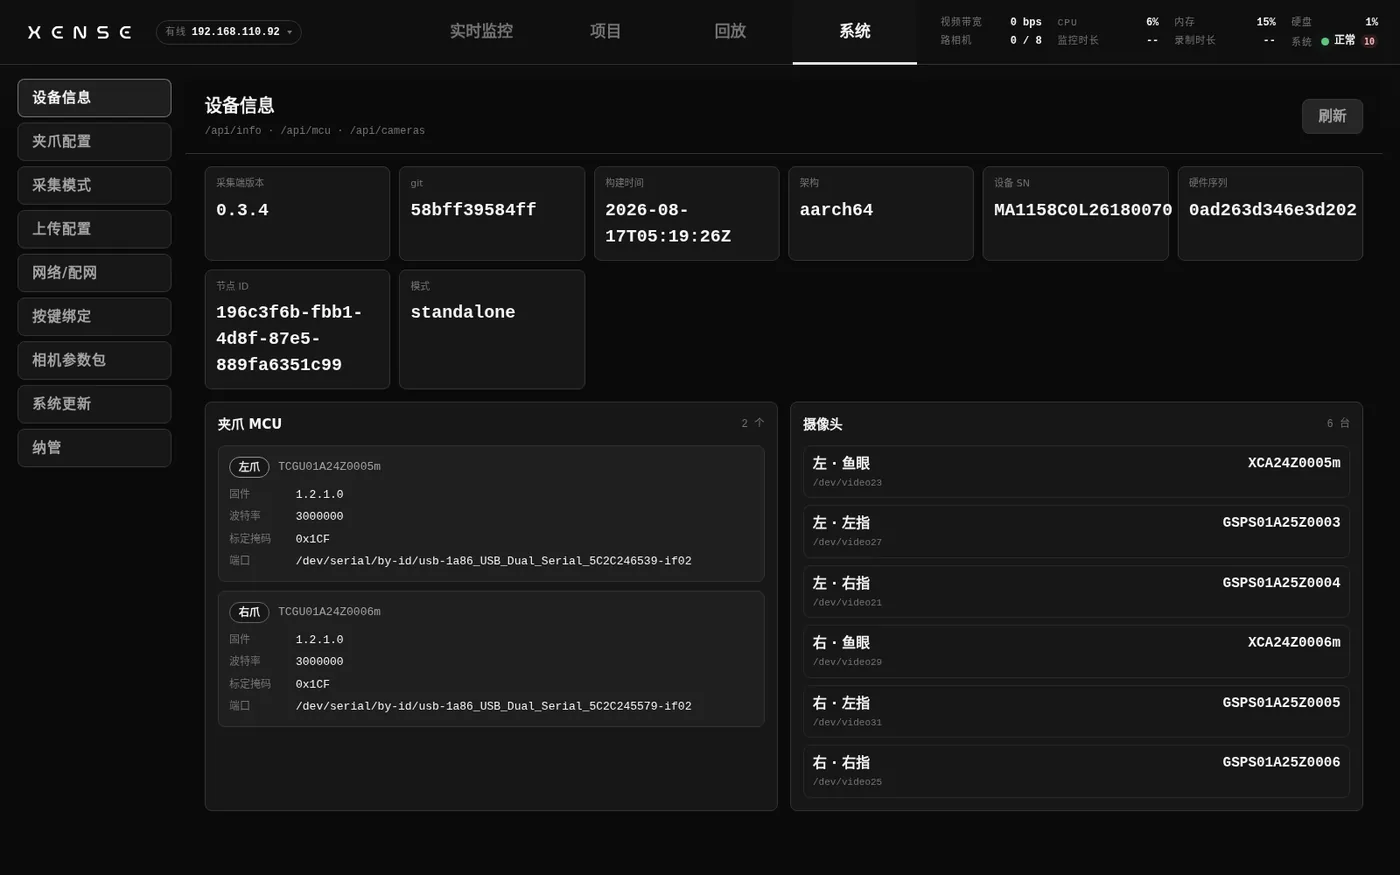
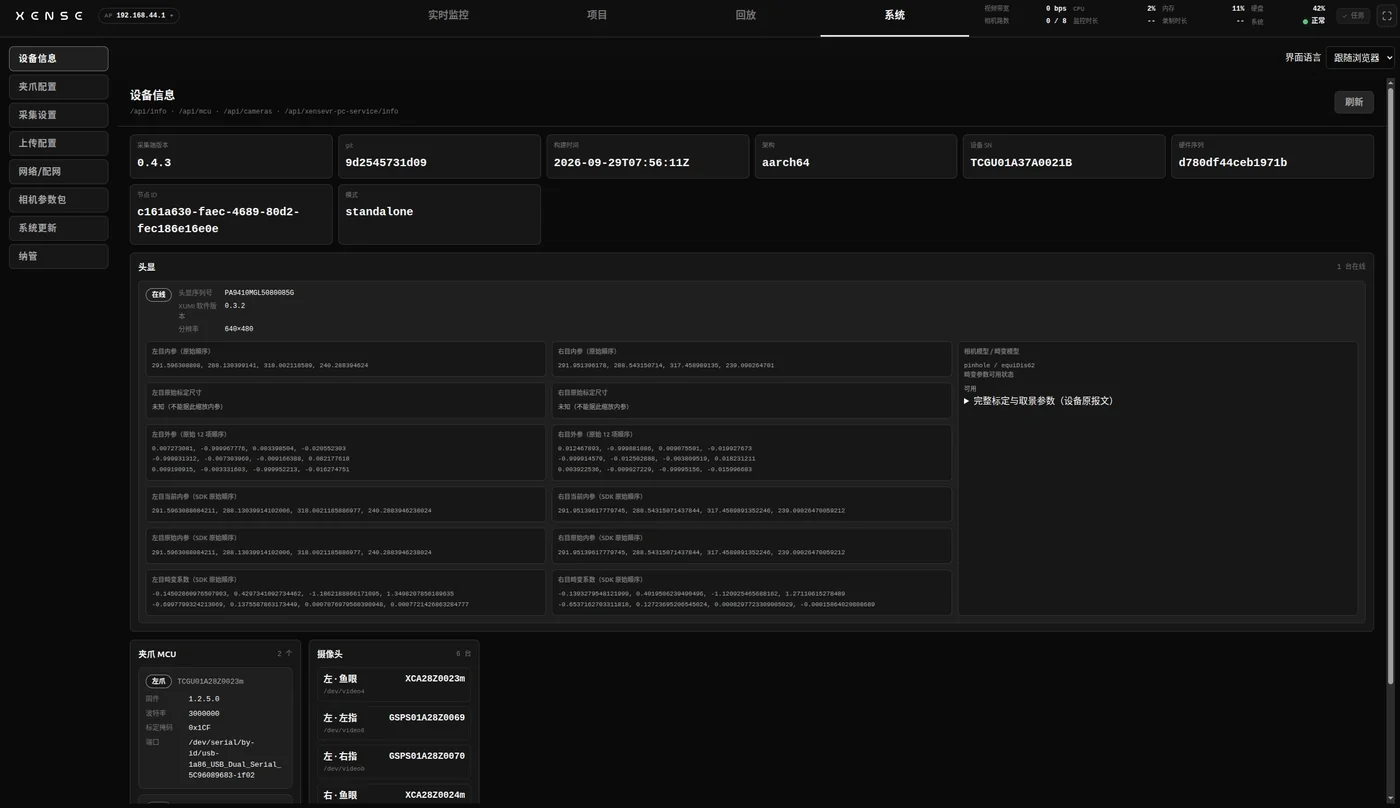
docs: 背包控制台 12 张截图换成 0.4.3 真机图，热点密码打码；网络页补设备名一行

diff --git a/docs/assets/README.md b/docs/assets/README.md
@@ -11,7 +11,7 @@
 |---|---|---|
 | `brand/` | 站点 logo(`logo.svg` 深色版、`logo-light.svg` 白色版给黑色页眉)、favicon | 主题 |
 | `product/` | 产品渲染图、背包接口与标签照片、接线图 | 首页、product/ |
-| `backpack/` | XTac-UMI Collector 控制台截图(多数仍是 0.3.16 拍的;界面已变的四张换成了占位图,见下方[占位图待补](#placeholder);文件名沿用 Taccap-User-Doc;首页与 product/ 的控制台展示图也从这里取) | 首页、product/、backpack/ |
+| `backpack/` | XTac-UMI Collector 控制台截图(2026-10-07 起按 0.4.3 重截,仍是旧图的见下方[待重截](#placeholder);文件名沿用 Taccap-User-Doc;首页与 product/ 的控制台展示图也从这里取) | 首页、product/、backpack/ |
 | `pico4/` | Pico4 Ultra 企业版系统与 APP 截图 | common/pico4 |
 | `hardware/` | 夹爪接口、锁紧、指示灯示意 | common/gripper、product/g1 |
 | `bringup/` `record/` `dataset/` | PC 版启动、录制、数据集截图与示意图 | 首页、pc/ |
@@ -19,25 +19,19 @@
 | `video/` | 产品宣传视频 | product/highlights |
 | `javascripts/` | PC 版总览的交互式架构图(`arch.js`) | pc/index |
 
-## 占位图待补 {#placeholder}
+## 待重截 {#placeholder}
 
-文档已同步到 Collector 0.4.1,下面四张的界面在 0.4.1 结构性改过(不只是细节差异),
-原图会误导读者,所以**先用占位图顶替**。拿到 0.4.1 真机后按「应当拍什么」重截,
-**覆盖同名文件即可**,文档里的引用路径不用动;原图在 git 历史里可取回。
+2026-10-07 用 0.4.3 真机重截了 12 张(采集设置、网络 / 配网、上传配置、夹爪配置、新建项目、
+项目页、实时监控、系统更新、顶栏网络下拉、设备信息、回放、相机参数包),**同名覆盖**,引用路径不变。
+`wifi.webp` 与 `network-dropdown-live.webp` 里的热点密码已打码。
 
-| 文件 | 应当拍什么 | 为什么原图失效 |
+下面几张仍是 0.3.x 的旧界面,重截后同名覆盖即可:
+
+| 文件 | 应当拍什么 | 用在 |
 |---|---|---|
-| `capture-mode.webp` | 系统 → 采集设置页首的「当前项目采集配置」只读块 | 原图是设备级、可点击切换的模式卡片;0.4.1 改成项目级、建项目时冻结,这一页只读展示 |
-| `new-project.webp` | 新建项目对话框(含采集模式、PICO 分辨率、触觉导出方向、图像源、鱼眼矫正) | 原图只有项目名与上传后端;0.4.1 把采集配置挪进了建项目这一步 |
-| `upload.webp` | 系统 → 上传配置,展开后端种类下拉 | 原图是三档后端;0.4.1 是五档(多了 FTP / FTPS 与 NFS) |
-| `wifi.webp` | 系统 → 网络 / 配网,含热点开关与「域名」字段 | 原图的热点块是只读展示;0.4.1 可开关热点、可改 mDNS 域名 |
-
-占位图是**双语**的(中文 + English):这四张在中英两套页面里共用同一个文件,
-一份双语图两边都读得懂,省掉一套英文专用图和两边的引用改动。真机截图拍的是
-控制台界面,界面本身是中文,与站内其余截图一致,不需要再出英文版。
-
-其余截图暂按原样保留 —— 它们与 0.4.1 的差异还没有核实到「结构性改变」的程度,
-拿真图换掉一张能看的旧图,不如先留着。重截时可一并核对。
+| `export-precheck-live.webp` | 0.4.3 导出对话框:预检、选录制、去向、格式 | projects-export |
+| `new-task-live.webp` | 0.4.3 新建任务对话框 | monitor-record |
+| `delete-select.webp`、`delete-confirm.webp` | 0.4.3 删除录制的选择与确认弹窗 | monitor-record |
 
 ## 从 docs/follower-gripper 带入的素材来源
 

diff --git a/docs/backpack/monitor-record.en.md b/docs/backpack/monitor-record.en.md
@@ -30,7 +30,7 @@ Recordings land under a two-level "project → task" hierarchy. The two drop-dow
 
 Besides the name, a new project also fixes this project's **capture config** in one go: the capture mode (one of three: "Dual gripper", "Dual gripper + stereo headset", "Dual gripper + headset right eye"), the PICO resolution per eye (640 × 480 or 1024 × 768, only for modes that record headset video), the PICO image source (fisheye or undistorted images), the tactile rectified image export orientation (700 × 400 landscape by default, or an additional 90° counterclockwise for 400 × 700) and whether to rectify wrist fisheye distortion on export. **Once created they are frozen and cannot be changed** — to use a different set, create a new project; what each one means is in [Current project capture config](system.md#capture-mode). If you have already configured an upload backend at [System → Upload configuration](system.md#upload), you can also bind one to the project here and that project will use it by default when publishing; without a binding you pick one at publish time.
 
-![Creating a project](../assets/backpack/new-project.webp)
+![Creating a project](../assets/backpack/new-project.webp){ width="360" }
 
 The fields for a new task:
 

diff --git a/docs/backpack/network.en.md b/docs/backpack/network.en.md
@@ -64,7 +64,7 @@ The easiest way is [WiFi setup from the tablet over USB](#tablet-wifi), which jo
 
 The IP drop-down at the left of the console's top bar gathers every way into this unit: the wired IP, the wireless IP and the hotspot it is joined to, and its own hotspot's SSID / password / gateway, plus the mDNS device name. Collapsed it shows only "the one address you should use to reach it right now" (the first available of wired > wireless > hotspot), and expanding it shows them all. When the network environment has changed and you are not sure which address to use, look here first.
 
-![The top-bar network drop-down](../assets/backpack/network-dropdown-live.webp){ width="520" }
+![The top-bar network drop-down](../assets/backpack/network-dropdown-live.webp)
 
 ## Choosing a method by scenario {#choose}
 

diff --git a/docs/backpack/network.md b/docs/backpack/network.md
@@ -64,7 +64,7 @@
 
 控制台顶栏左侧的 IP 下拉汇总本机全部入口：有线 IP、无线 IP 与所连热点、自身热点的 SSID / 密码 / 网关、mDNS 设备名。折叠态只显示一条「此刻最该用来连它的地址」（按 有线 > 无线 > 热点 取第一个可用的），点开可见全部。换了网络环境、不确定该用哪个地址时先看这里。
 
-![顶栏网络下拉](../assets/backpack/network-dropdown-live.webp){ width="520" }
+![顶栏网络下拉](../assets/backpack/network-dropdown-live.webp)
 
 ## 按场景选接入方式 {#choose}
 

diff --git a/docs/backpack/system.en.md b/docs/backpack/system.en.md
@@ -147,6 +147,7 @@ The ways to open the console are in [Network and console access](network.md); th
 | Block | Contents |
 |---|---|
 | Local hotspot | Hotspot switch, name and password |
+| Wireless address | Device name (`.local`); give each backpack a different name |
 | Current WiFi | Joined network, IP, "Disconnect and forget" |
 | Nearby WiFi | Scan for and join a site network |
 | Wired connection | Automatic (DHCP) or static IP |

diff --git a/docs/backpack/system.md b/docs/backpack/system.md
@@ -147,6 +147,7 @@
 | 区块 | 内容 |
 |---|---|
 | 本机热点 | 热点开关、名称与密码 |
+| 无线访问地址 | 设备名（`.local`），多台背包时各起不同名字 |
 | 当前 WiFi | 已连网络、IP，「断开并遗忘」 |
 | 附近 WiFi | 扫描并连接现场网络 |
 | 有线连接 | 自动（DHCP）或静态 IP |
